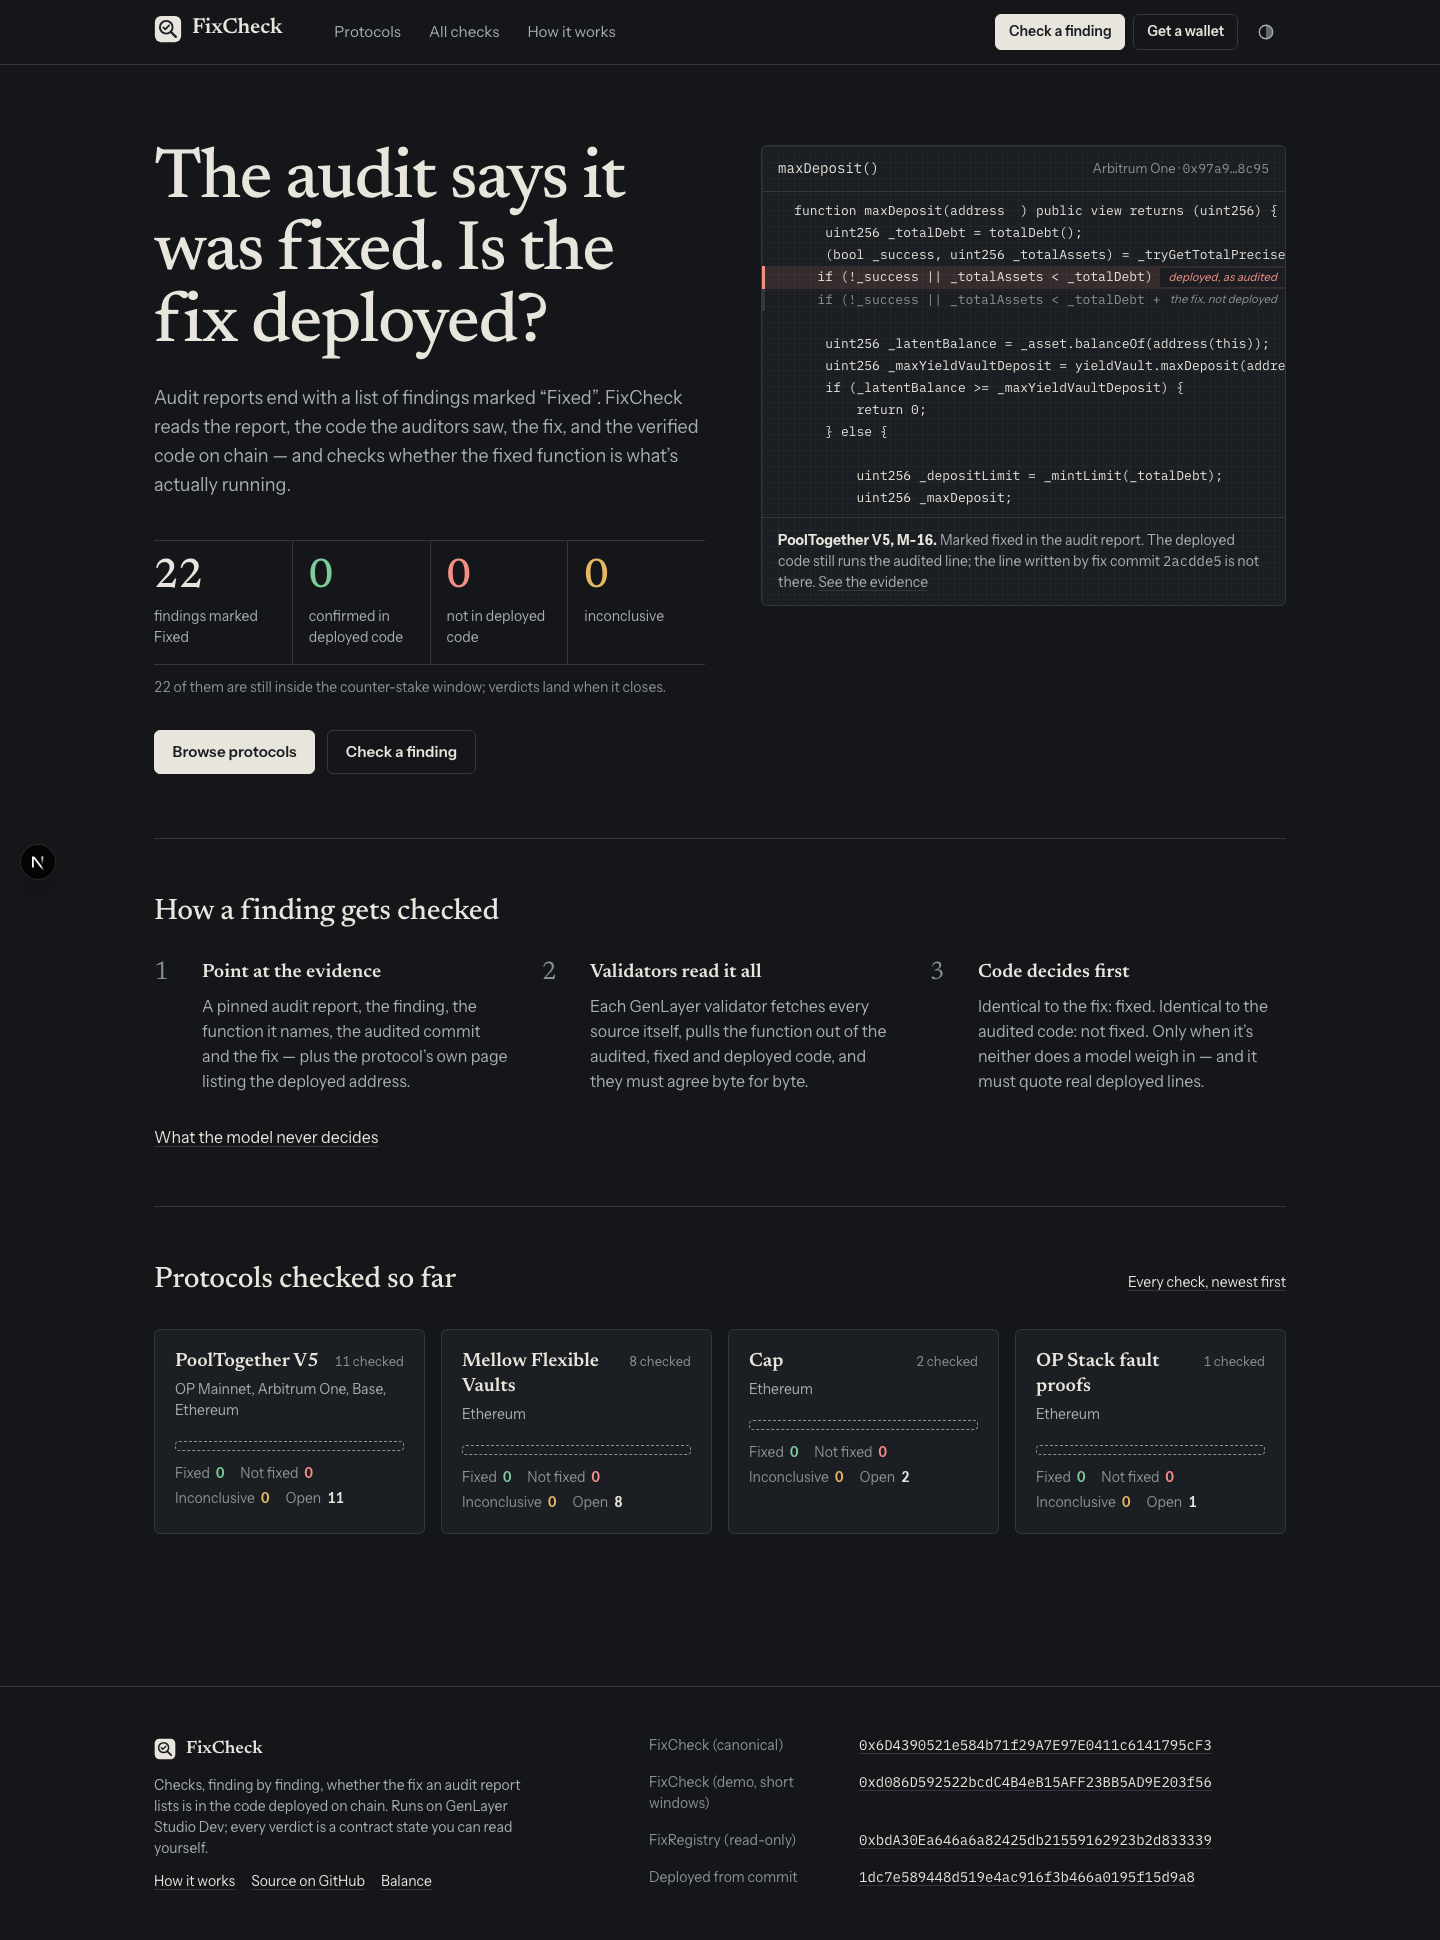
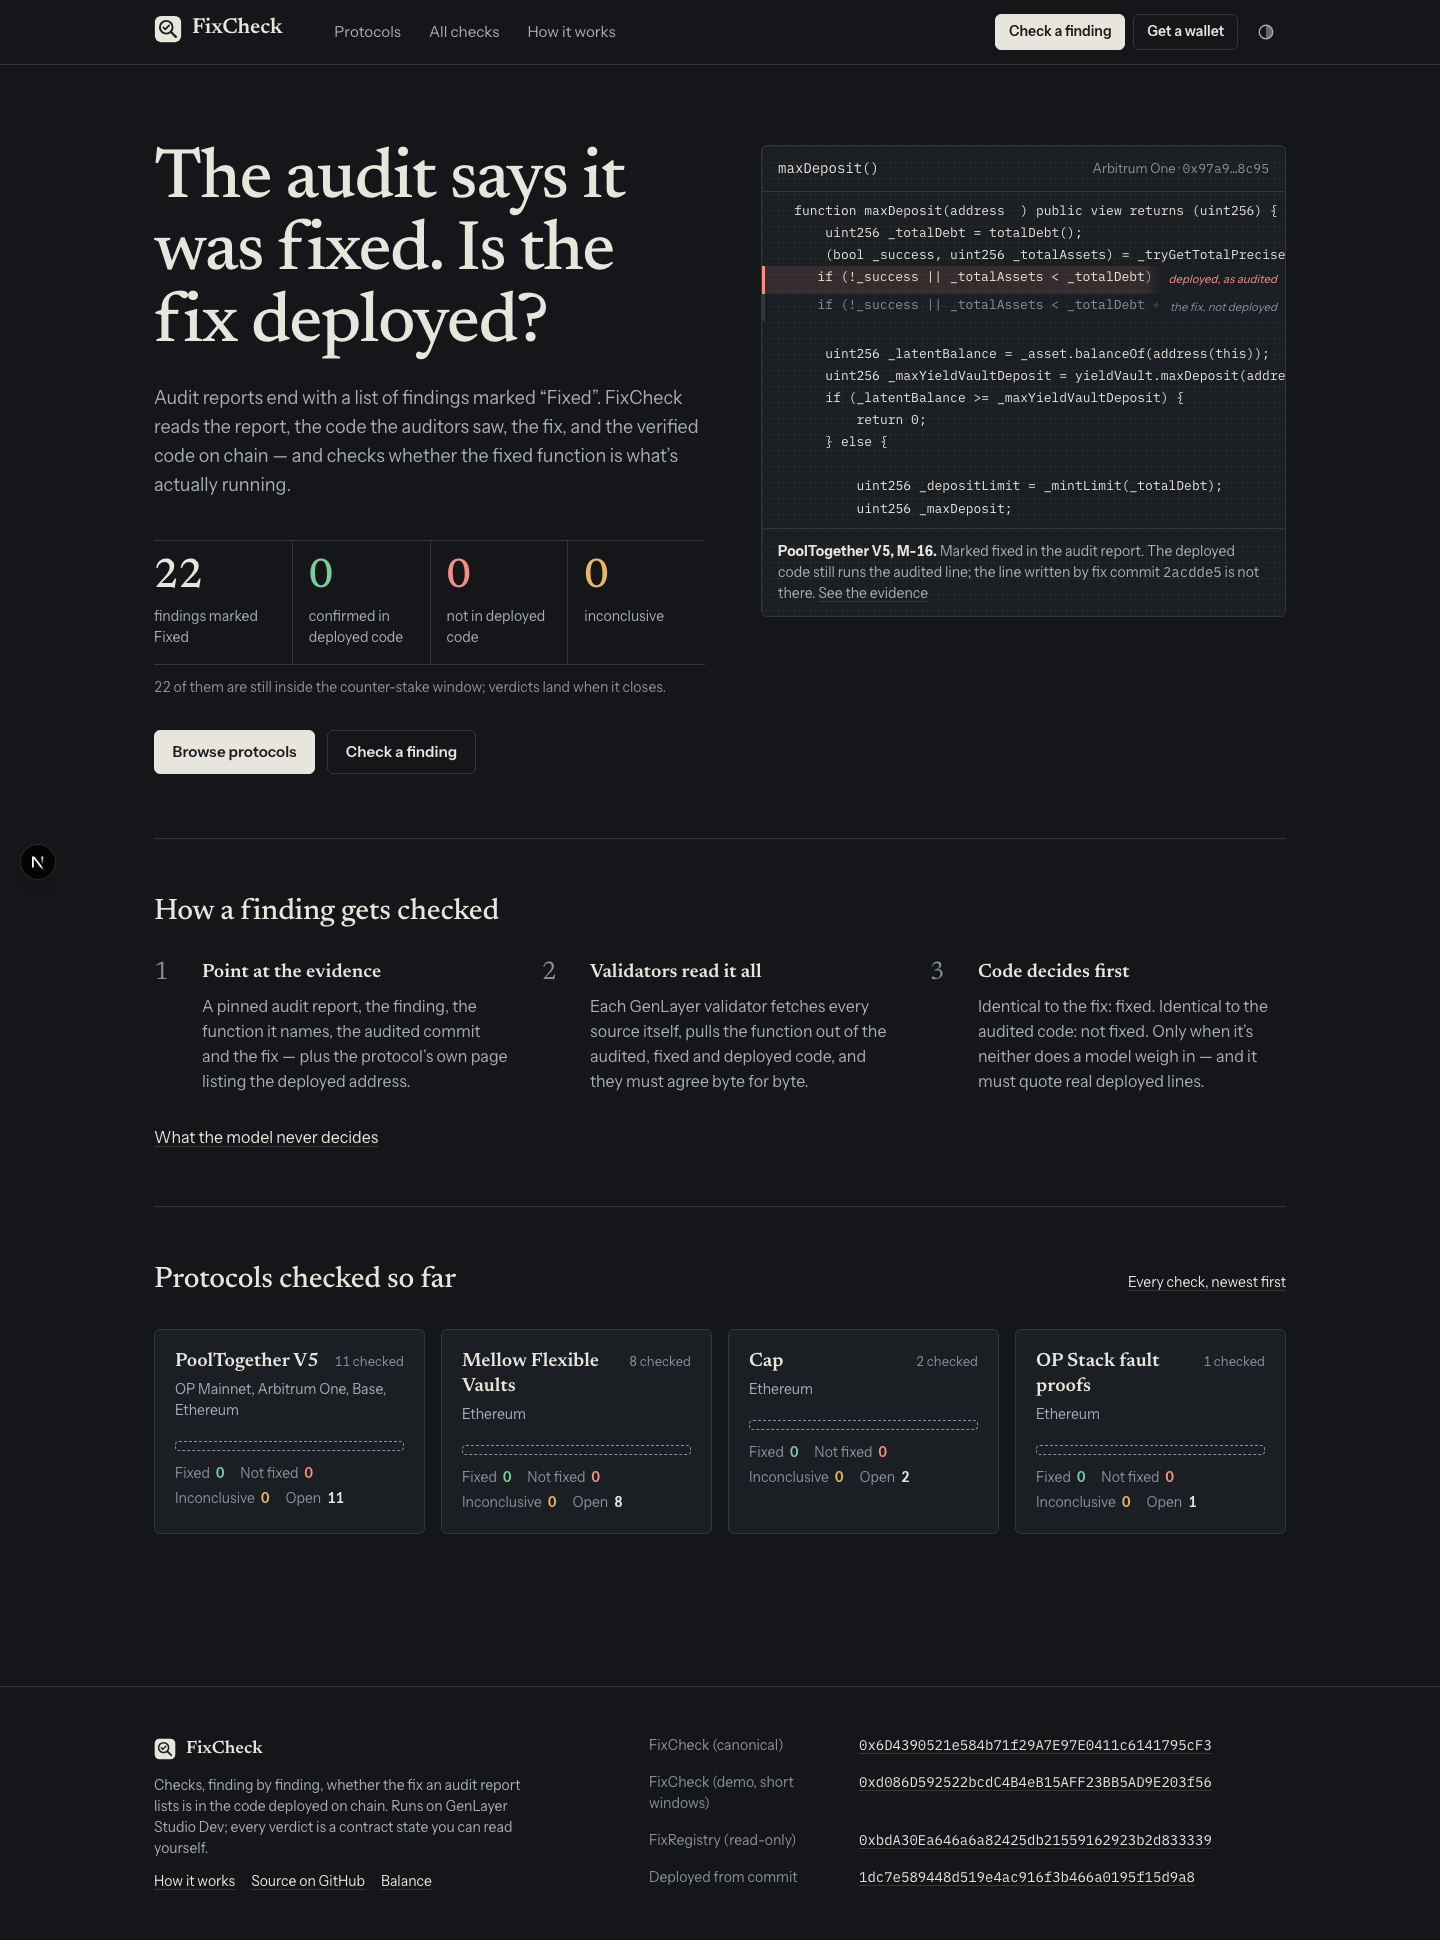
Design pass: margin notes, row alignment, mobile verdict order, stepper numerals, docs labels

Changed region(s): [[0.5312, 0.1237, 0.875, 0.3093]]

diff --git a/frontend/src/components/Specimen.tsx b/frontend/src/components/Specimen.tsx
@@ -32,14 +32,14 @@ export function Specimen({ check, code }: { check: Check; code: CheckCode }) {
                 <div className="flex whitespace-pre q-bad" role="cell">
                   <span className="w-6 shrink-0" aria-hidden="true" />
                   <span className="pr-3">{r.left!.text}</span>
-                  <span className="sticky right-0 ml-auto shrink-0 self-center bg-[var(--sheet)] px-2 font-sans text-[0.72rem] italic" style={{ color: "var(--bad)" }}>deployed, as audited</span>
+                  <span className="qnote sticky right-0 ml-auto shrink-0 self-stretch pl-6 pr-2 flex items-center leading-none font-sans text-[0.72rem] italic" style={{ color: "var(--bad)" }}>deployed, as audited</span>
                 </div>
               )}
               {fixLine && (
                 <div className="flex whitespace-pre text-ink-3" role="cell" style={{ boxShadow: "inset 3px 0 0 var(--rule)" }}>
                   <span className="w-6 shrink-0" aria-hidden="true" />
                   <span className="pr-3">{r.right!.text}</span>
-                  <span className="sticky right-0 ml-auto shrink-0 self-center bg-[var(--sheet)] px-2 font-sans text-[0.72rem] italic">the fix, not deployed</span>
+                  <span className="qnote sticky right-0 ml-auto shrink-0 self-stretch pl-6 pr-2 flex items-center leading-none font-sans text-[0.72rem] italic">the fix, not deployed</span>
                 </div>
               )}
               {r.kind === "same" && (

diff --git a/frontend/src/app/check/CheckFlow.tsx b/frontend/src/app/check/CheckFlow.tsx
@@ -108,7 +108,7 @@ export function CheckFlow() {
           <li key={s} className="flex items-center gap-1">
             <button type="button" disabled={i > step && !okStep.slice(0, i).every(Boolean)} onClick={() => setStep(i)} aria-current={i === step ? "step" : undefined}
               className={`flex items-center gap-2 rounded-md px-2.5 py-1.5 t-small ${i === step ? "bg-ink text-sheet" : i < step ? "text-ink" : "text-ink-3"} disabled:cursor-not-allowed`}>
-              <span className="t-num">{i + 1}</span>{s}
+              <span className="tabular-nums opacity-70">{i + 1}</span>{s}
             </button>
             {i < STEPS.length - 1 && <span className="text-ink-3" aria-hidden="true">/</span>}
           </li>

diff --git a/frontend/src/components/DiffViewer.tsx b/frontend/src/components/DiffViewer.tsx
@@ -54,7 +54,7 @@ export function DiffViewer(p: Props) {
         <span className="ln shrink-0">{s ? s.n + 1 : ""}</span>
         <span className="pr-4">{s ? s.text || " " : " "}</span>
         {isQ && s && !quoted.has(s.n - 1) && (
-          <span className="sticky right-0 ml-auto shrink-0 self-center pl-3 pr-2 font-sans text-[0.72rem] italic" style={{ color: `var(--${p.tone === "open" ? "ink-2" : p.tone})` }}>quoted by validators</span>
+          <span className="qnote sticky right-0 ml-auto shrink-0 self-stretch pl-6 pr-2 font-sans text-[0.72rem] italic flex items-center leading-none" style={{ color: `var(--${p.tone === "open" ? "ink-2" : p.tone})` }}>quoted by validators</span>
         )}
       </div>
     );

diff --git a/frontend/src/app/globals.css b/frontend/src/app/globals.css
@@ -214,6 +214,7 @@ a { color: inherit; text-decoration-thickness: 1px; text-underline-offset: 3px; 
 @keyframes sweep { from { background-size: 0% 100%; } to { background-size: 100% 100%; } }
 .sweep { background-image: linear-gradient(90deg, var(--sweep-c, transparent), var(--sweep-c, transparent)); background-repeat: no-repeat; animation: sweep 700ms ease-out both; }
 
+.qnote { background: linear-gradient(90deg, transparent, var(--sheet) 1.1rem); }
 .slip {
   background: var(--slip);
   border: 1px solid var(--rule);

diff --git a/frontend/src/components/CheckView.tsx b/frontend/src/components/CheckView.tsx
@@ -135,7 +135,7 @@ export function CheckView({ c, code, defenders, dep }: { c: Check; code: CheckCo
           </section>
         </div>
 
-        <aside className="grid content-start gap-6">
+        <aside className="order-first grid content-start gap-6 lg:order-none">
           <section aria-labelledby="verdict" className="sheet p-5">
             <h2 id="verdict" className="t-label">Verdict</h2>
             <div className="mt-2"><Status kind={kind} /></div>

diff --git a/docs/TASKS.md b/docs/TASKS.md
@@ -1,0 +1,37 @@
+# Tasks
+
+## Step 0 — research and probe
+- [x] Probe from GenVM on studio-dev: Blockscout v2 (eth, OP ✓; base/arbitrum/polygon behind a bot wall → Sourcify v2 ✓), GitHub raw at a SHA ✓, Sherlock README ✓, Code4rena page ✓, web.archive.org snapshot ✓ (`docs/research/probe_1.json`)
+- [x] 22 real findings marked fixed, with report pinned at a SHA, finding id, function, audited commit, fix commit, deployed address + chain, docs URL listing the address (`docs/research/seeds.json`)
+- [x] Offline comparison with the contract's own extractor: 64 deployment pairs — 13 identical to fix, 43 identical to audited, 7 changed, 1 inconclusive (`docs/RESEARCH.md`)
+- [x] The "Fixed" findings not present in deployed code documented with dates, creation txs and hashes, no claims about intent (PoolTogether V5, `docs/RESEARCH.md` §5)
+- [x] `docs/RESEARCH.md` written before contract code
+
+## Contracts
+- [x] `contracts/FixCheck.py` — v0.6 format (`# v0.3.0` + pinned Depends hash), `gl.contract.Contract`, TreeMap storage, `gl.message.raw` time, `gl.storage.allow`, fees on writes
+- [x] Filing frozen: pinned report / docs / audited / fix URLs, finding id, function, chain, address; validators fetch everything; strict equality on every canonical field and every body sha256
+- [x] Code checks: finding heads a report section with a fixed-status phrase and names the function; docs list the address; contract verified (one proxy hop)
+- [x] Decide: code first (CODE_MATCH_FIX / CODE_MATCH_VULNERABLE / missing / overloaded / unparseable); model only otherwise, quotes verified verbatim, asked twice, flip → INCONCLUSIVE; only enums, basis and quote indices + hashes stored
+- [x] Stakes: NOT_FIXED challenger vs FIXED defenders; pro-rata; no-defender fee; inconclusive refunds; one open check per key; pull payouts; withdraw; `balance == open + claimable + fees`; deadlines + permissionless decide / expire
+- [x] Views: per-protocol scorecard, check details, code, defenders, paginated lists, stats, ledger, `fix_status`
+- [x] `contracts/FixRegistry.py` — read-only `fix_status(chain, address, finding)`, no payable methods
+
+## Threat model and tests
+- [x] `docs/THREAT_MODEL.md` with one offline test class per item (`python3 test/test_fixcheck.py`, 68 tests, real fetched evidence as fixtures)
+
+## Deploy and seed
+- [x] CANONICAL (1 h / 24 h), DEMO (90 s / 300 s), FixRegistry deployed from committed HEAD (`test/deploy.mjs`), `ADDRESSES.md` with full addresses, commit, sha256
+- [x] All 22 real findings seeded on CANONICAL, resumable from chain (`test/seed_canonical.mjs`)
+- [x] DEMO runs every path: challenge win, challenge lose, inconclusive refund, no-defender fee, model decision, expiry, refusal, sweep, withdraw, withdraw twice (`test/seed_demo.mjs`)
+- [x] `docs/SEEDS.md` from chain, with links and the model double-run agreement
+- [x] `tools/verify_source.mjs` — all 3 contracts byte-identical to HEAD
+
+## Frontend
+- [x] Next.js + genlayer-js, Vercel project with Root Directory = frontend
+- [x] Landing (live tally, specimen, 3 steps, protocol cards), protocol page (ring, sortable/filterable table), finding page (diff plate, pinned finding, quoted lines, verdict, evidence hashes, stakes, timeline), check flow (stepper, live preview, tx states, shareable result), balance + ledger, how it works, all checks, demo
+- [x] Per-finding OG images, brand kit (logo SVG + 512 PNG, favicons, OG), screenshots 1440/390 light/dark, demo video
+- [x] Design review loop over every page at 1440/390 in light and dark
+
+## Finish
+- [x] README (problem, how it works, model vs code, full addresses, seed table, known limits, how to use in 5 steps)
+- [x] Push, deploy on Vercel, green Vercel check on GitHub, repository public

diff --git a/ADDRESSES.md b/ADDRESSES.md
@@ -1,0 +1,11 @@
+# Addresses
+
+Network: GenLayer **Studio Dev** (chain id 61997), explorer https://explorer-studio-dev.genlayer.com/
+
+Every contract was deployed with the bytes of `git show <commit>:<file>` (never the working tree). `node tools/verify_source.mjs` reads the code back from the chain and compares it byte for byte with HEAD.
+
+| Contract | Address | File | Commit | sha256 | Constructor | Deploy tx |
+|---|---|---|---|---|---|---|
[3 lines of base64/hex data omitted]
